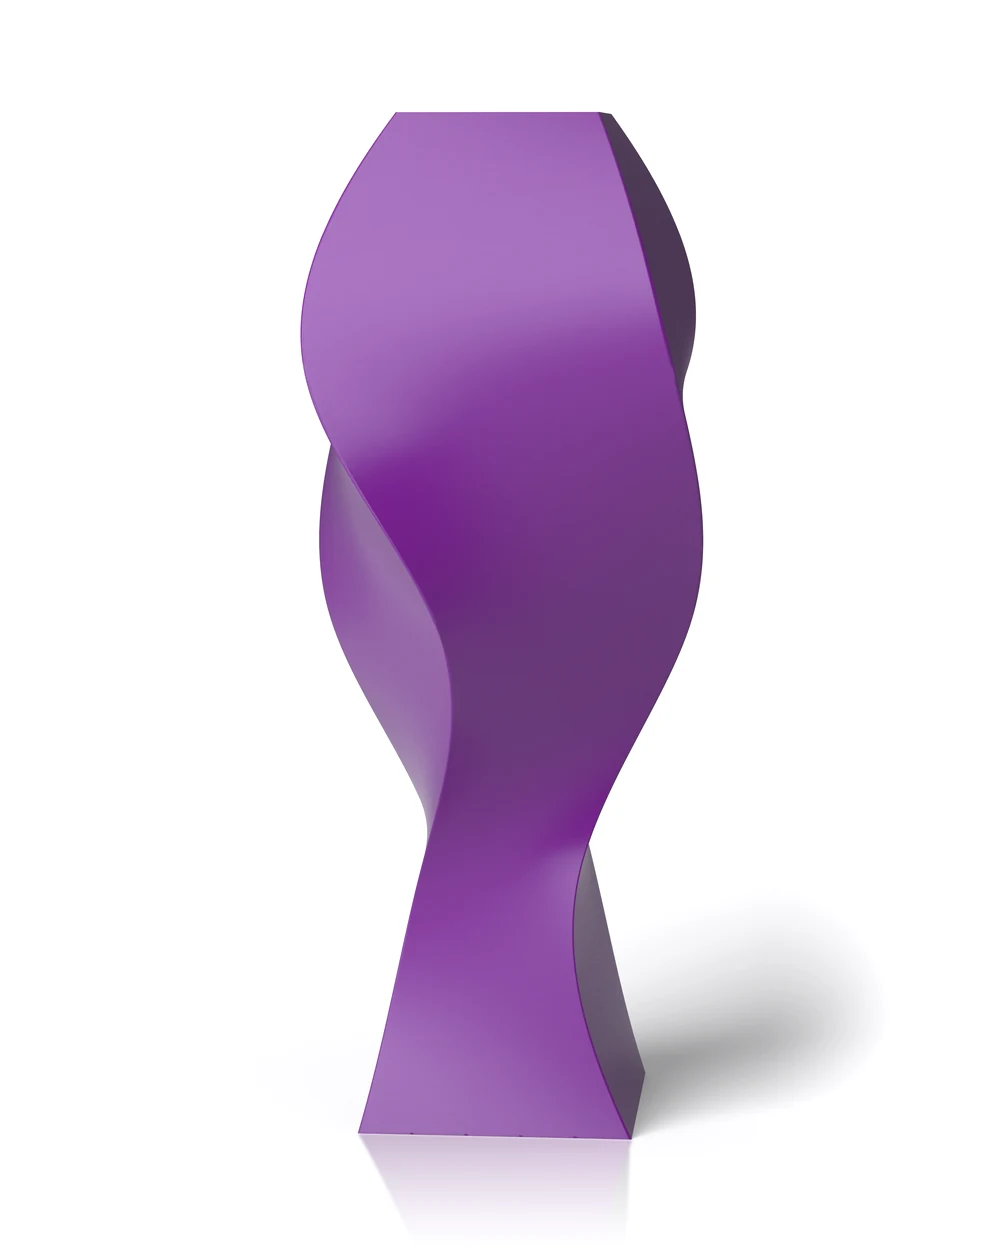
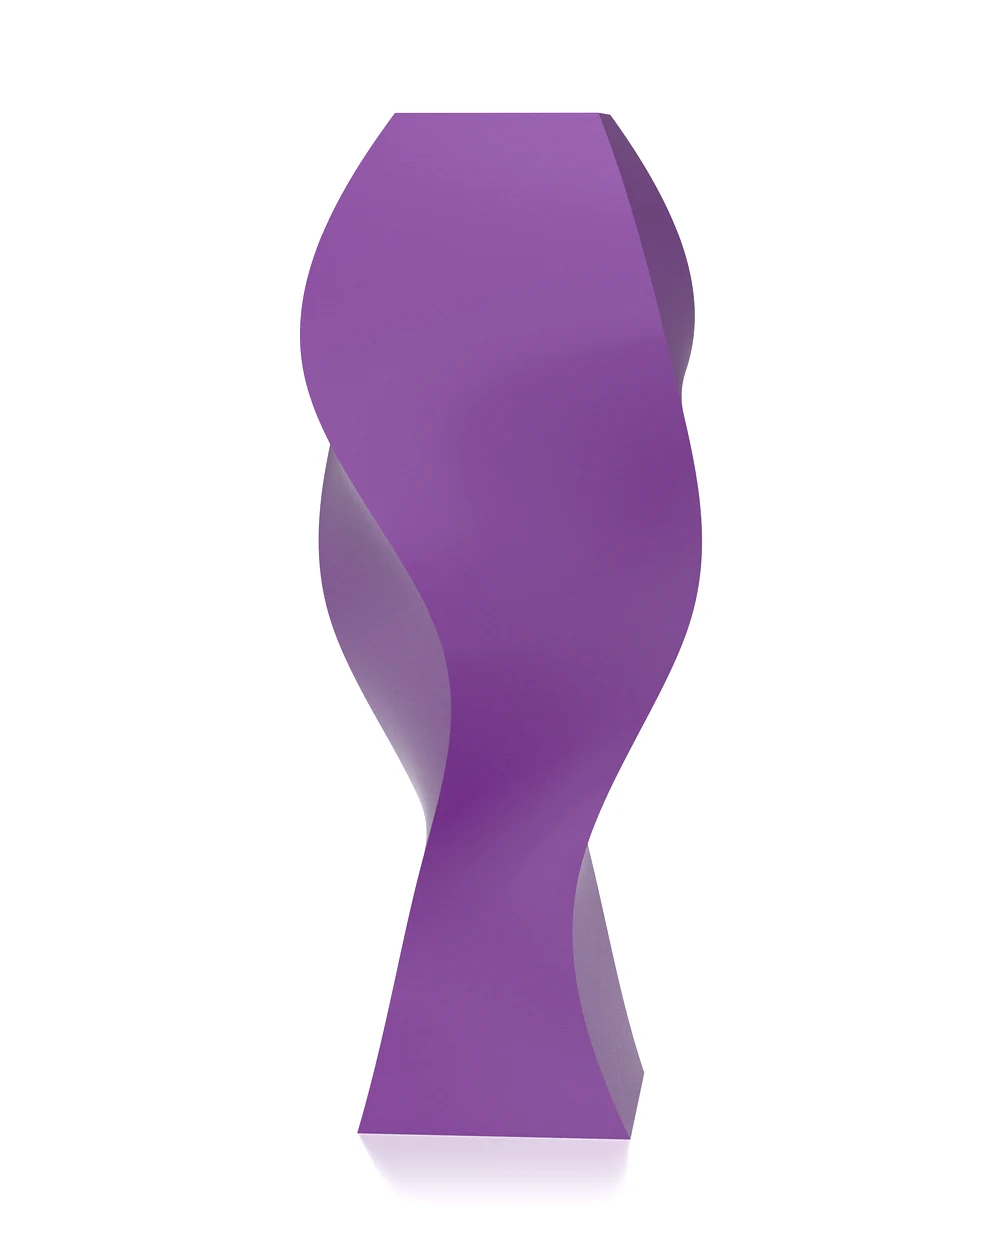
Torsione: render colori con luce uniforme, layer visibili, riflesso sfumato e sfondo uniforme al Bombato
Claude-Session: https://claude.ai/code/session_01MGUzPwwzTWodVZRn9utq3A

Changed region(s): [[0.31, 0.3432, 0.868, 0.936], [0.279, 0.0936, 0.713, 0.312], [0.341, 0.8112, 0.496, 0.936]]

diff --git a/prodotto-torsione.html b/prodotto-torsione.html
@@ -665,17 +665,17 @@
     /* Il render del vaso in ogni colore (sito, luce uguale per tutti). Compare nel
        riquadro solo quando si tocca il pallino: NON e' fra le miniature. */
     var COLORI = {
-      "#a3444d":"images/Torsione/colori/torsione-red-wine.webp?v=c1",
-      "#91535d":"images/Torsione/colori/torsione-bordeaux.webp?v=c1",
-      "#bcbfb0":"images/Torsione/colori/torsione-sage.webp?v=c1",
-      "#646666":"images/Torsione/colori/torsione-antracite.webp?v=c1",
-      "#d8d0cd":"images/Torsione/colori/torsione-off-white.webp?v=c1",
-      "#e7cac0":"images/Torsione/colori/torsione-rose.webp?v=c1",
-      "#0095a1":"images/Torsione/colori/torsione-blu-lagoon.webp?v=c1",
-      "#6b1492":"images/Torsione/colori/torsione-viola.webp?v=c1",
-      "#dd1d76":"images/Torsione/colori/torsione-magenta.webp?v=c1",
-      "#346371":"images/Torsione/colori/torsione-emerald-green.webp?v=c1",
-      "#e0bf42":"images/Torsione/colori/torsione-golden.webp?v=c1"
+      "#a3444d":"images/Torsione/colori/torsione-red-wine.webp?v=c2",
+      "#91535d":"images/Torsione/colori/torsione-bordeaux.webp?v=c2",
+      "#bcbfb0":"images/Torsione/colori/torsione-sage.webp?v=c2",
+      "#646666":"images/Torsione/colori/torsione-antracite.webp?v=c2",
+      "#d8d0cd":"images/Torsione/colori/torsione-off-white.webp?v=c2",
+      "#e7cac0":"images/Torsione/colori/torsione-rose.webp?v=c2",
+      "#0095a1":"images/Torsione/colori/torsione-blu-lagoon.webp?v=c2",
+      "#6b1492":"images/Torsione/colori/torsione-viola.webp?v=c2",
+      "#dd1d76":"images/Torsione/colori/torsione-magenta.webp?v=c2",
+      "#346371":"images/Torsione/colori/torsione-emerald-green.webp?v=c2",
+      "#e0bf42":"images/Torsione/colori/torsione-golden.webp?v=c2"
     };
 
     var stato = { vista:'foto', da:'foto', foto:0, color:'#a3444d', nomeColore:'Red Wine', modelloAvviato:false };
